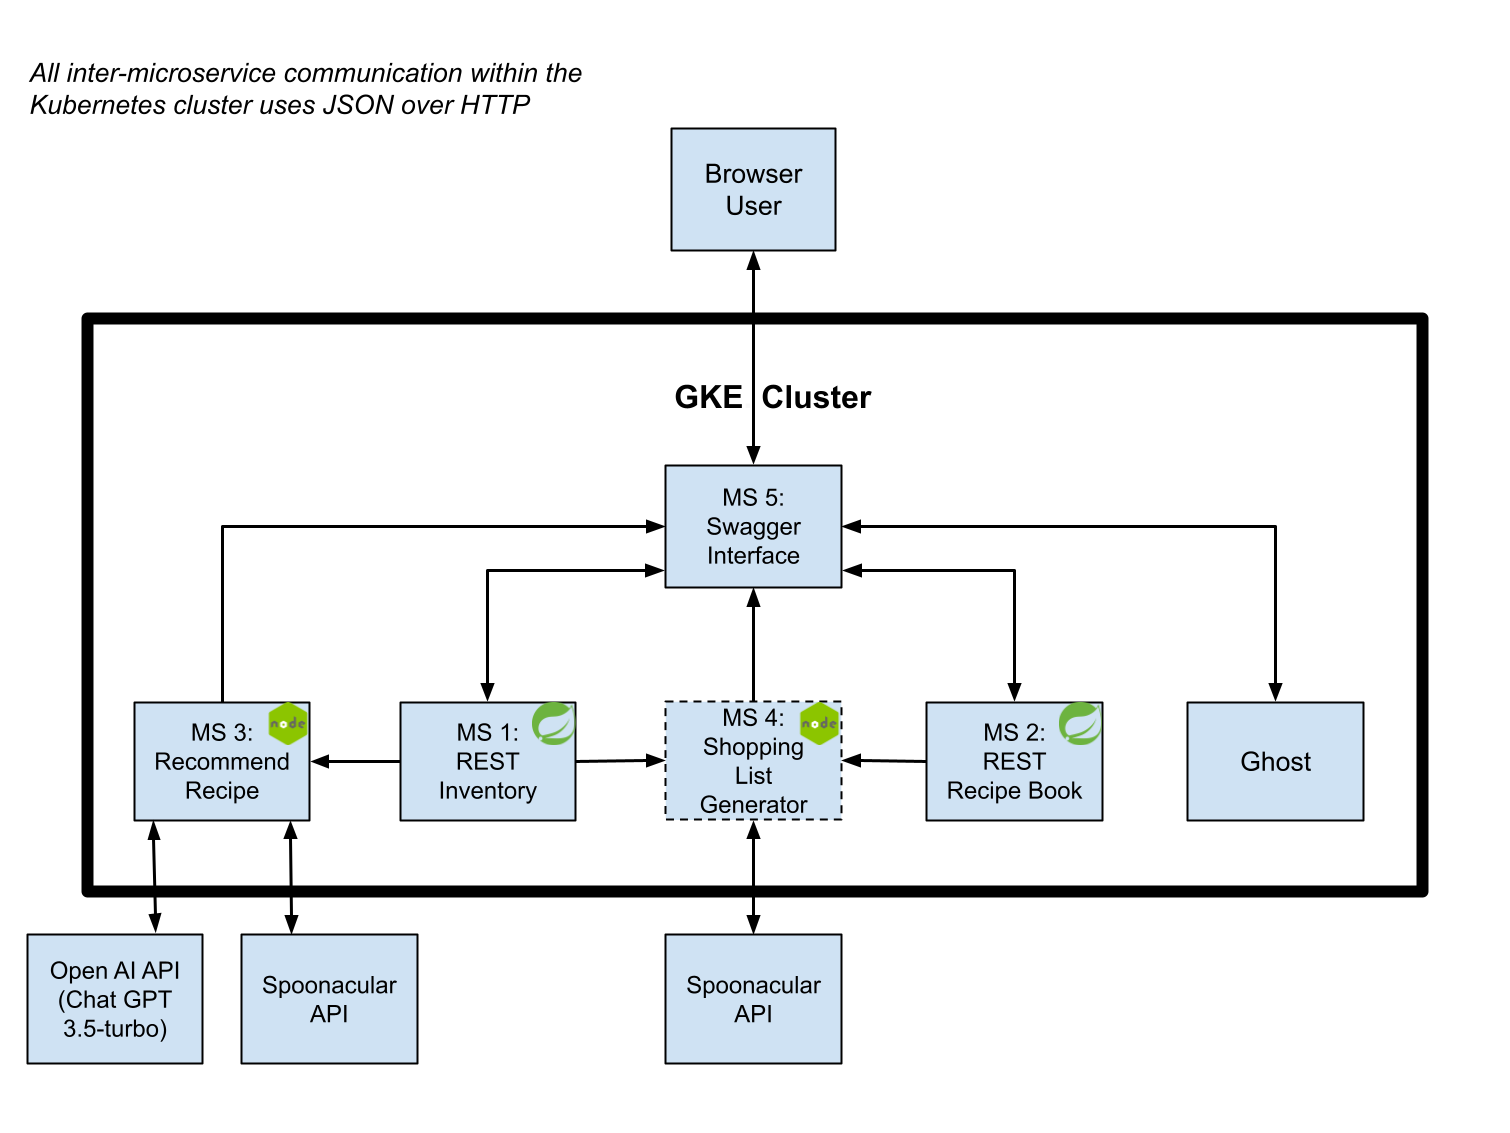
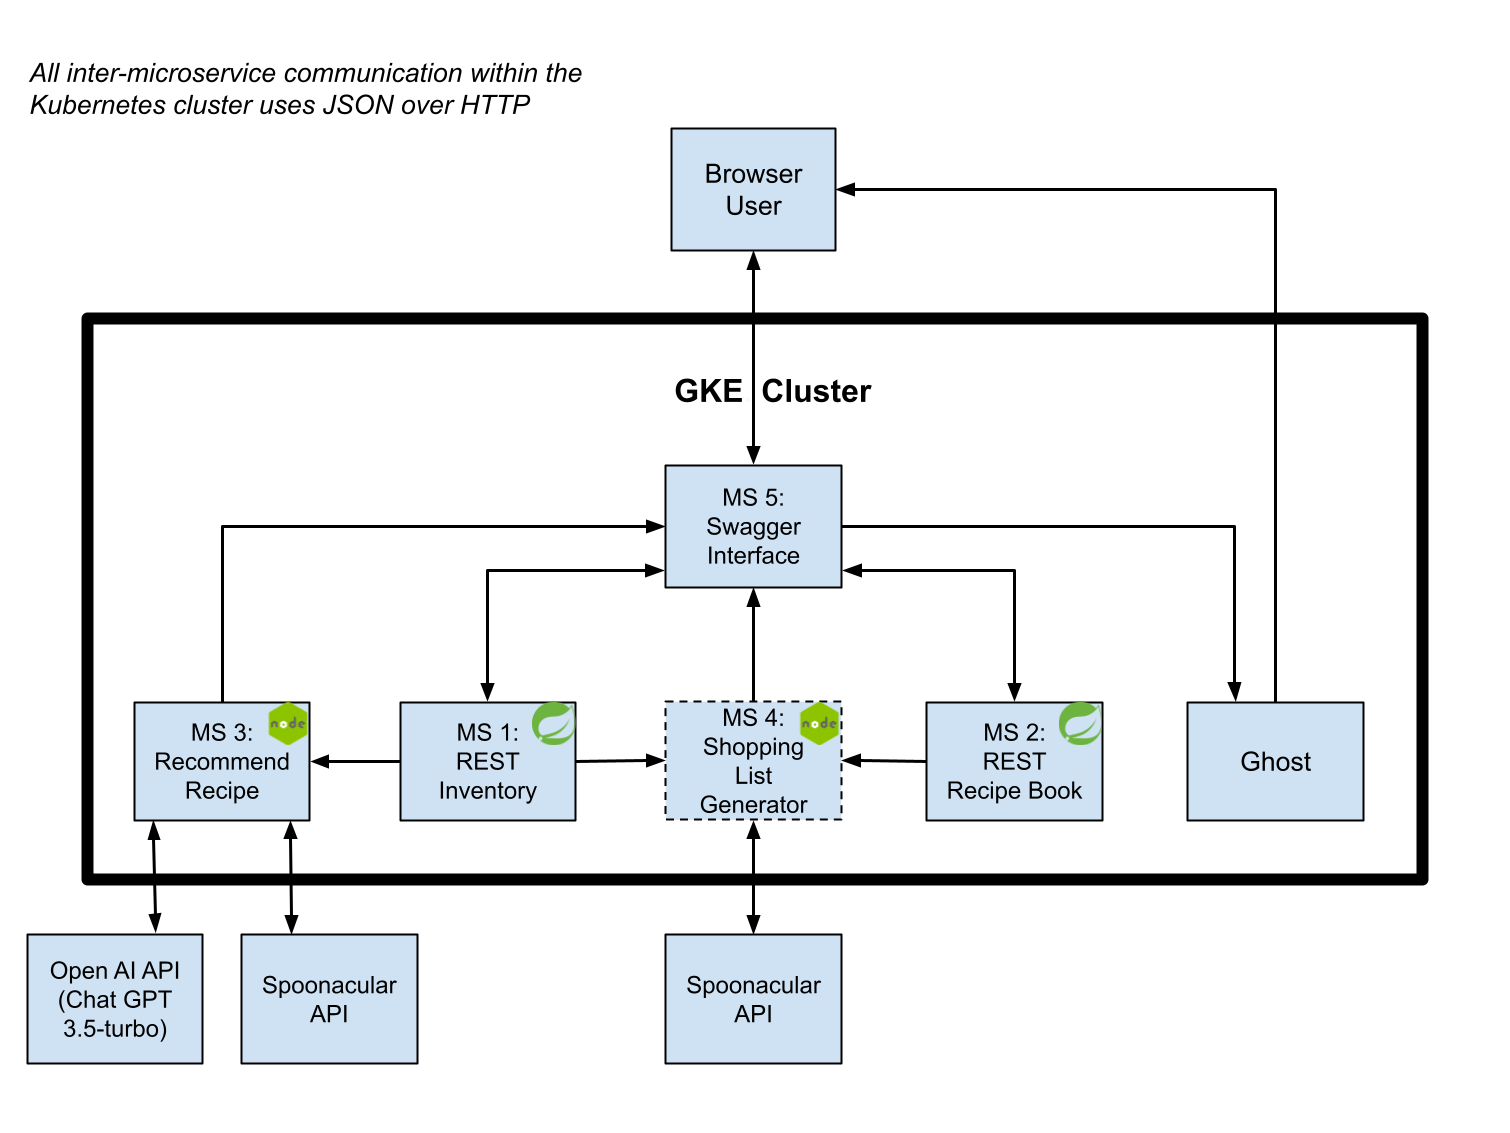
updated README

diff --git a/README.md b/README.md
@@ -17,19 +17,29 @@ This project is a simple Recipe Book and Kitchen Inventory service. Recipes and 
     - With CRUD operations for the recipe book.  
 
 - [ ] MS 3: Recipe recommender(Jeff*).
-    - Calling the `read` database methods from MS 1 to access ingredients inventory data.
+    - Calling the `read` methods from MS 1 to access ingredients inventory data.
     - Generates Recipe based on ingredients inventory data, powered by LLM llama 2 or Chat GPT 3.5-turbo.
     - Generates a random recipe based on the list of missing materials using [Spoonacular API-Get Random Recipes](https://spoonacular.com/food-api/docs#Get-Random-Recipes) 
 
 - [ ] MS 4: Shopping list generator(Jeff*).
-    - Calling the `read` database methods from MS 2 to find out what ingredients we need for cooking certain recipe.
-    - Calling the `read` database methods from MS 1 to find our what ingredients we already have.
+    - Calling the `read` methods from MS 2 to find out what ingredients we need for cooking certain recipe.
+    - Calling the `read` methods from MS 1 to find our what ingredients we already have.
     - Required ingredients - Ingredients in stock = List of missing materials. 
     - Generates a shopping list based on the list of missing materials using [Spoonacular API-Compute Shopping List](https://spoonacular.com/food-api/docs#Compute-Shopping-List)  
 
-- [ ] MS 5: Swagger Interface  
+- [ ] MS 5: Swagger Interface(George*).  
     - MS 5 is a microservice that integrates functionalities from Microservices 1, 2, 3, and 4, providing a unified set of APIs in Swagger UI.  
-    - MS 5 is able to call the Ghost API (internal API) to post blogs based on recommended recipes.
+    - MS 5 is able to call the Ghost API (internal API) to post blogs based on recommended recipes.  
+
+- [ ] Ghost. 
+    - 
+    - Step 1: APIs of MS 3 are called by MS 5.
+    - Step 2: MS 3 gets stored food information from MS1 and sends it to Chat GPT 3.5-turbo with a prompt.
+    - Step 3: Chat GPT 3.5 sends a JSON response(a recipe).
+    - Step 3: MS 3 sends back a JSON response to MS 5.
+    - Step 4: MS 5 calls Ghost API and sends the JSON response to it.
+    - Step 5: Ghost posts a blog based on MS 3's JSON response on http://34.49.160.195/.
+
 
 
 Component Diagram:
@@ -42,12 +52,21 @@ Ollama on Cluster:
 ![ollama](images/ollama.png)
 
 ## Technologies
-- Microservices' source code: Spring Boot, Node.js.
-- Ghost (Internal API): for posting blogs based on recommended recipes.
-- Spoonacular API (External API): for getting a random recipes and computing shopping list.
-- LLM: Ollama + Llama2 (Internal API), Chat GPT 3.5-turbo (External API): for generating a recipe recommendation.
-- Docker desktop: for Containerization.
-- Kubernetes: for Container Orchestration.
+- Microservices' source code: 
+    - Spring Boot, Node.js.
+- Ghost (Internal API): 
+    - For posting blogs based on recommended recipes.
+- Spoonacular API (External API): 
+    - For getting a random recipes and computing shopping list.
+- LLM: 
+    - Ollama + Llama2 (Internal API), 
+        - For generating a recipe recommendation.
+    - Chat GPT 3.5-turbo (External API): 
+        - For generating a recipe recommendation.
+- Docker desktop: 
+    - For Containerization.
+- Kubernetes: 
+    - For Container Orchestration.
 
 ## UI Layout
 - Landing page will have centralized buttons to navigate to each microservice.
@@ -67,7 +86,9 @@ Ollama on Cluster:
 
 ## Getting started
 ### User access: 
-http://34.111.130.246/  
+1. MS 5: http://34.111.130.246/  
+
+2. Ghost: http://34.49.160.195/
 
 ### Deploying instructions:   
 This project is a microservice-based application designed to be deployed and run on Kubernetes. To deploy it, you'll need either Docker Desktop (with Kubernetes enabled) or a standalone Kubernetes cluster.
